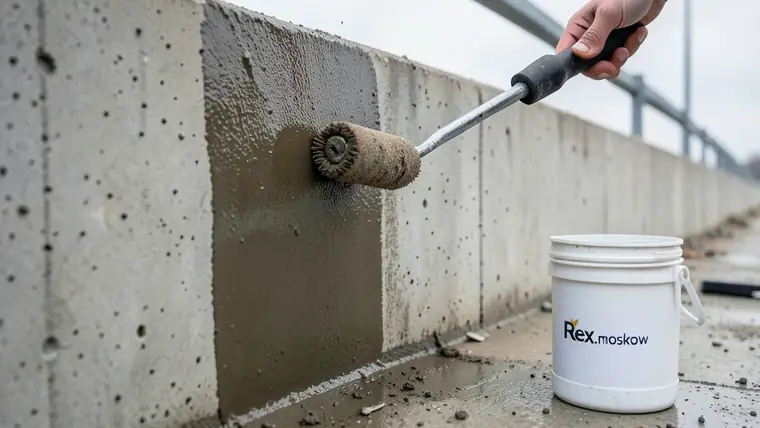
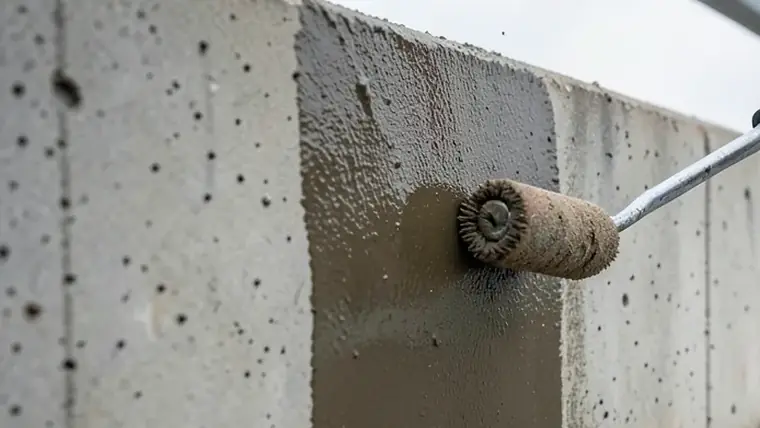
Обложки: 15 кадров перекадрированы (убраны крупные кисти рук), 3 заменены на брендовую пластину (кириллица/люди); tools/fix_cover.py

diff --git a/tools/fix_cover.py b/tools/fix_cover.py
@@ -1,0 +1,225 @@
+# -*- coding: utf-8 -*-
+"""Починка отдельных обложек статей: умный кроп от рук или брендовая «пластина».
+
+Зачем: генератор иногда рисует крупный план кисти руки (артефакты пальцев) или длинный
+текст/чужой логотип, хотя в ТЗ этого не должно быть. Перегенерировать картинку мы не можем,
+поэтому два локальных приёма:
+
+  --zoom   взять исходник 1024×576 из images/images.zip и выбрать окно 0.6–0.78 кадра так,
+           чтобы в него попала «материя» (инструмент, поверхность), а не кисть: перебор
+           сетки смещений по минимуму «телесных» пикселей и максимуму детализации.
+  --plate  нарисовать «пластину» в стиле сайта (бумажный фон, сетка, акцентная полоса,
+           рубрика, заголовок) — для кадров, где текста/людей слишком много.
+
+    & $py13 tools\\fix_cover.py --zoom beton-kontakt-eto drugoy-slug
+    & $py13 tools\\fix_cover.py --plate importozameshhenie-stroitelnoj-himii
+    & $py13 tools\\fix_cover.py --revert beton-kontakt-eto     # вернуть исходную версию
+"""
+import argparse
+import io
+import json
+import os
+import sys
+import zipfile
+
+from PIL import Image, ImageDraw, ImageFont
+
+sys.stdout.reconfigure(encoding="utf-8", errors="replace")
+BASE = os.path.dirname(os.path.dirname(os.path.abspath(__file__)))
+ZIP = os.path.join(BASE, "images", "images.zip")
+META = os.path.join(BASE, "articles-future", "metadata.csv")
+MODEL = os.path.join(BASE, "data", "model.json")
+COVERS = os.path.join(BASE, "assets", "img", "a")
+W, H, Q = 760, 428, 72
+
+INK = (13, 43, 62)
+ACC = (0, 136, 204)
+PAPER = (242, 248, 252)
+GRID = (220, 233, 243)
+MUTED = (69, 106, 131)
+
+FONT_DIR = r"C:\Windows\Fonts"
+F_TITLE = ("segoeuib.ttf", "arialbd.ttf", "ariblk.ttf")
+F_TEXT = ("segoeui.ttf", "arial.ttf")
+F_MONO = ("consola.ttf", "cour.ttf")
+
+
+def font(names, size):
+    for n in names:
+        p = os.path.join(FONT_DIR, n)
+        if os.path.exists(p):
+            try:
+                return ImageFont.truetype(p, size)
+            except Exception:
+                pass
+    return ImageFont.load_default()
+
+
+def slug_to_id():
+    import csv
+    out = {}
+    with open(META, encoding="utf-8-sig") as f:
+        for r in csv.DictReader(f):
+            out[r["slug"].strip()] = str(r["post_id"]).strip()
+    return out
+
+
+def origin(slug, i2s):
+    """Байты исходной картинки из архива по post_id."""
+    pid = i2s.get(slug)
+    if not pid:
+        return None
+    z = zipfile.ZipFile(ZIP)
+    for n in z.namelist():
+        if os.path.splitext(os.path.basename(n))[0] == pid:
+            return z.read(n)
+    return None
+
+
+def skin_score(im):
+    """Относительная «телесность»: тёплые средненасыщенные пиксели."""
+    small = im.resize((im.width // 3, im.height // 3)).convert("RGB")
+    px = small.load()
+    w, h = small.size
+    hit = 0
+    for y in range(h):
+        for x in range(w):
+            r, g, b = px[x, y]
+            mx, mn = max(r, g, b), min(r, g, b)
+            if mx < 70 or mx > 250:
+                continue
+            sat = (mx - mn) / mx
+            if r >= g >= b and 0.18 <= sat <= 0.62 and (r - b) >= 20 and (r - g) >= 8:
+                hit += 1
+    return hit / float(w * h)
+
+
+def detail(im):
+    g = im.convert("L")
+    hist = g.histogram()
+    return sum(hist[40:]) / float(sum(hist) or 1)
+
+
+def zoom_fix(raw, keep=0.68):
+    """Выбрать окно keep×keep кадра с минимумом «кожи» и достаточной детализацией."""
+    src = Image.open(io.BytesIO(raw)).convert("RGB")
+    sw, sh = src.size
+    ww, wh = int(sw * keep), int(sh * keep)
+    best = None
+    for fy in (0.0, 0.15, 0.3, 0.45, 0.6):
+        for fx in (0.0, 0.15, 0.3, 0.45, 0.6):
+            x = int((sw - ww) * fx)
+            y = int((sh - wh) * fy)
+            win = src.crop((x, y, x + ww, y + wh))
+            sc = skin_score(win)
+            dt = detail(win)
+            # меньше кожи — лучше; при равенстве — больше деталей
+            key = (round(sc, 4), -round(dt, 4))
+            if best is None or key < best[0]:
+                best = (key, win, sc, dt)
+    win = best[1]
+    # дотягиваем до 760×428 с сохранением пропорций
+    tw, th = W, H
+    ww2, wh2 = win.size
+    if ww2 / wh2 > tw / th:
+        nw = int(round(wh2 * tw / th))
+        left = (ww2 - nw) // 2
+        win = win.crop((left, 0, left + nw, wh2))
+    else:
+        nh = int(round(ww2 * th / tw))
+        top = (wh2 - nh) // 2
+        win = win.crop((0, top, ww2, top + nh))
+    return win.resize((tw, th), Image.LANCZOS), best[2], best[3]
+
+
+def plate_cover(slug, title, category):
+    im = Image.new("RGB", (W, H), PAPER)
+    d = ImageDraw.Draw(im)
+    for x in range(0, W, 38):
+        d.line([(x, 0), (x, H)], fill=GRID)
+    for y in range(0, H, 38):
+        d.line([(0, y), (W, y)], fill=GRID)
+    d.rectangle([0, 0, 8, H], fill=ACC)
+    fm = font(F_MONO, 13)
+    ft = font(F_TITLE, 30)
+    d.text((34, 30), (category or "СТАТЬЯ").upper()[:52], font=fm, fill=MUTED)
+    # заголовок: подбираем кегль и переносим по словам
+    words = (title or slug).split()
+    for size in (34, 31, 28, 25, 22):
+        ft = font(F_TITLE, size)
+        line_h = int(size * 1.22)
+        lines, cur = [], ""
+        for wd in words:
+            probe = (cur + " " + wd).strip()
+            if d.textlength(probe, font=ft) <= W - 70:
+                cur = probe
+            else:
+                if cur:
+                    lines.append(cur)
+                cur = wd
+        if cur:
+            lines.append(cur)
+        if len(lines) <= 3:
+            break
+    y = 62
+    for line in lines[:3]:
+        d.text((34, y), line, font=ft, fill=INK)
+        y += line_h
+    d.line([(34, H - 46), (W - 34, H - 46)], fill=GRID, width=2)
+    d.text((34, H - 36), "Rex.moscow", font=fm, fill=ACC)
+    return im
+
+
+def main():
+    ap = argparse.ArgumentParser(description="Починка обложек: умный кроп или пластина")
+    ap.add_argument("--zoom", nargs="+", metavar="SLUG")
+    ap.add_argument("--keep", type=float, default=0.68, help="доля кадра при кропе (0.55–0.8)")
+    ap.add_argument("--plate", nargs="+", metavar="SLUG")
+    ap.add_argument("--revert", nargs="+", metavar="SLUG")
+    a = ap.parse_args()
+
+    i2s = slug_to_id()
+    model = {p["slug"]: p for p in json.load(open(MODEL, encoding="utf-8"))["posts"]}
+    os.makedirs(COVERS, exist_ok=True)
+
+    if a.zoom:
+        for slug in a.zoom:
+            raw = origin(slug, i2s)
+            if not raw:
+                print("  нет исходника: %s" % slug)
+                continue
+            im, sc, dt = zoom_fix(raw, keep=a.keep)
+            im.save(os.path.join(COVERS, slug + ".webp"), "WEBP", quality=Q, method=6)
+            print("  кроп %-58s кожа %.3f детали %.3f" % (slug[:58], sc, dt))
+
+    if a.plate:
+        cat = {"gidroizolyaciya": "Гидроизоляция", "remont-betona": "Ремонт бетона",
+               "promyshlennye-poly": "Промышленные полы", "zashhita-betona": "Защита бетона",
+               "kleevye-ankernye-sistemy": "Клеевые и анкерные системы"}
+        for slug in a.plate:
+            p = model.get(slug)
+            if not p:
+                print("  нет статьи: %s" % slug)
+                continue
+            im = plate_cover(slug, p.get("title", ""), cat.get(p.get("category"), "Статья"))
+            im.save(os.path.join(COVERS, slug + ".webp"), "WEBP", quality=Q, method=6)
+            print("  пластина %s" % slug)
+
+    if a.revert:
+        from PIL import Image as I
+        for slug in a.revert:
+            raw = origin(slug, i2s)
+            if not raw:
+                print("  нет исходника: %s" % slug)
+                continue
+            src = I.open(io.BytesIO(raw)).convert("RGB")
+            sw, sh = src.size
+            nw = int(round(sh * W / H))
+            left = (sw - nw) // 2
+            src = src.crop((left, 0, left + nw, sh)).resize((W, H), I.LANCZOS)
+            src.save(os.path.join(COVERS, slug + ".webp"), "WEBP", quality=Q, method=6)
+            print("  возвращено как было: %s" % slug)
+
+
+if __name__ == "__main__":
+    main()

diff --git a/tools/make_cover_sheets.py b/tools/make_cover_sheets.py
@@ -1,0 +1,42 @@
+# -*- coding: utf-8 -*-
+"""Контактные листы обложек для визуальной вычитки (по 30 штук на лист).
+
+    & $py13 tools\\make_cover_sheets.py            # -> shots/sheets/sheet-01.png ...
+"""
+import os
+import sys
+
+from PIL import Image, ImageDraw
+
+sys.stdout.reconfigure(encoding="utf-8", errors="replace")
+BASE = os.path.dirname(os.path.dirname(os.path.abspath(__file__)))
+SRC = os.path.join(BASE, "assets", "img", "a")
+OUT = os.path.join(BASE, "shots", "sheets")
+COLS, ROWS, TW, TH, PAD, LABEL = 6, 5, 240, 135, 6, 16
+PER = COLS * ROWS
+
+
+def main():
+    os.makedirs(OUT, exist_ok=True)
+    files = sorted(f for f in os.listdir(SRC) if f.endswith(".webp"))
+    sheets = 0
+    for si in range(0, len(files), PER):
+        chunk = files[si:si + PER]
+        w = COLS * (TW + PAD) + PAD
+        h = ROWS * (TH + LABEL + PAD) + PAD
+        sheet = Image.new("RGB", (w, h), (13, 43, 62))
+        d = ImageDraw.Draw(sheet)
+        for i, fn in enumerate(chunk):
+            col, row = i % COLS, i // COLS
+            x = PAD + col * (TW + PAD)
+            y = PAD + row * (TH + LABEL + PAD)
+            im = Image.open(os.path.join(SRC, fn)).convert("RGB").resize((TW, TH), Image.LANCZOS)
+            sheet.paste(im, (x, y))
+            d.text((x + 2, y + TH + 2), "%d. %s" % (si + i + 1, fn[:-5][:34]), fill=(200, 220, 235))
+        sheets += 1
+        sheet.save(os.path.join(OUT, "sheet-%02d.png" % sheets), "PNG", optimize=True)
+    print("листов: %d | обложек: %d | папка: %s" % (sheets, len(files), OUT))
+
+
+if __name__ == "__main__":
+    main()
